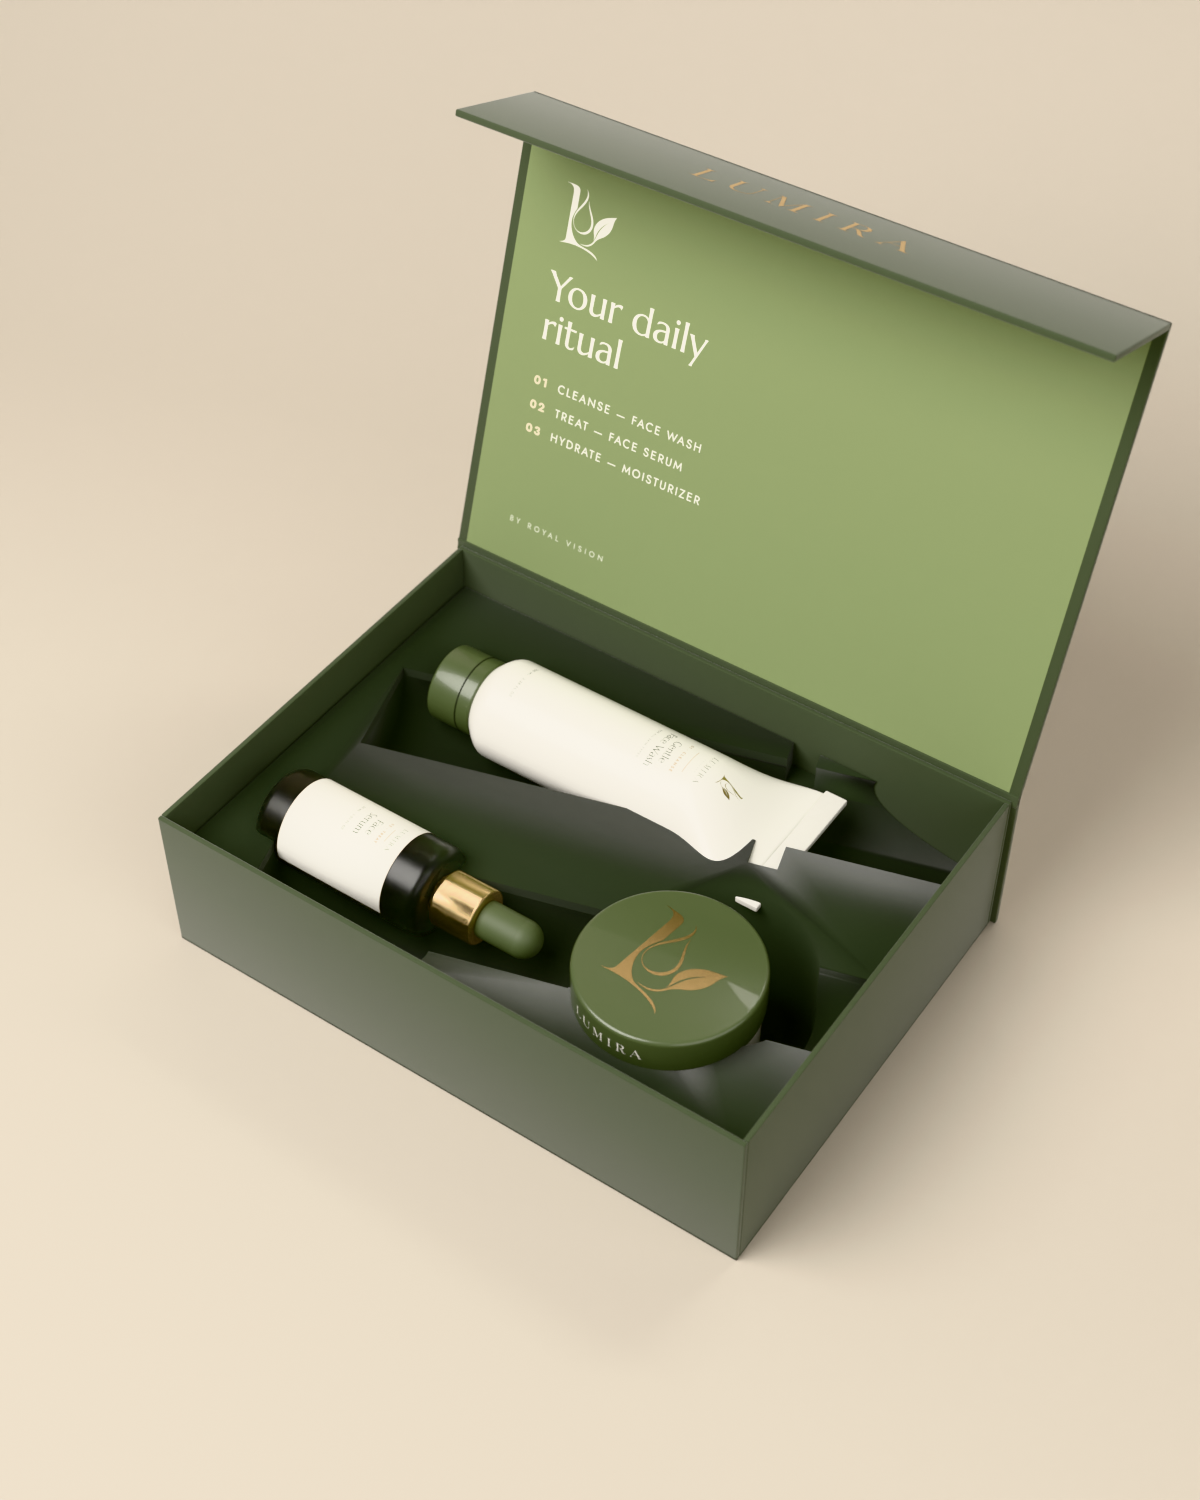
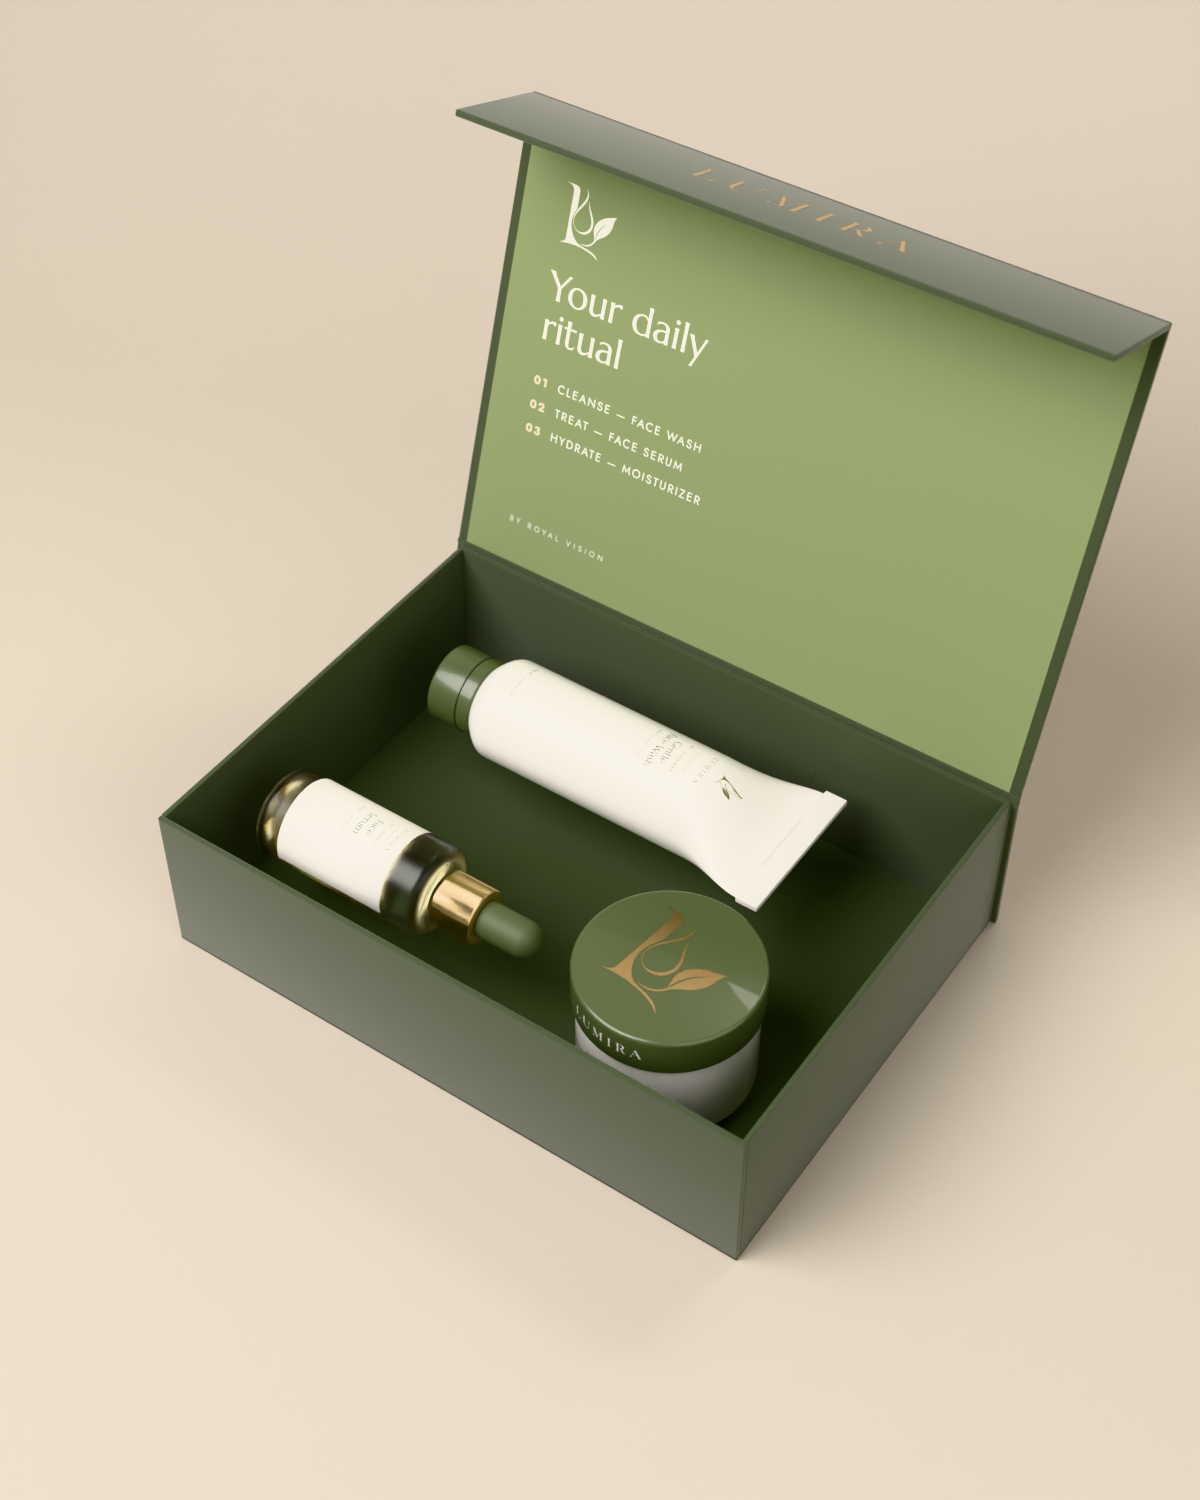
Add Lumira foam insert renders; fix insert cavity length in 3D model
Claude-Session: https://claude.ai/code/session_01LcLnYNDzurLSB8XLdGSFaY

diff --git a/brand/lumira-beauty/kit/realistic/source/insert_shot.py b/brand/lumira-beauty/kit/realistic/source/insert_shot.py
@@ -1,0 +1,25 @@
+import sys, os, math
+sys.path.insert(0, os.path.dirname(os.path.abspath(__file__)))
+import scene as S
+from scene import *
+import box_mockup as B, magnetic as M
+
+def build(products):
+    stage(); world()
+    root = bpy.data.objects.new("root", None); bpy.context.scene.collection.objects.link(root)
+    parts = B.shell("base", M.BW, M.BD, M.BH, B.FLOOR, B.olive_mat(), up=True) + M.insert_with_products()
+    for o in parts:
+        if o.parent is None: o.parent = root
+    if not products:   # keep the foam and ribbon, hide the three products
+        for e in [o for o in parts if o.type == "EMPTY"]:
+            for c in e.children_recursive: c.hide_render = True
+    root.rotation_euler = (0, 0, math.radians(-12))
+    tgt = (0, 0, mm(40))
+    B.lamp("key", (-0.25, -0.2, 0.9), tgt, 30, 1.2)
+    B.lamp("fill", (0.6, -0.4, 0.5), tgt, 6, 1.2)
+    B.lamp("rim", (0.2, 0.6, 0.7), tgt, 8, 0.8)
+    camera((0.03, -0.20, 0.58), tgt, lens=58, fstop=11)
+
+if __name__ == "__main__":
+    which, out, w, h, spp = sys.argv[1], sys.argv[2], int(sys.argv[3]), int(sys.argv[4]), int(sys.argv[5])
+    S.reset(); build(which == "full"); S.render(out, w, h, spp)

diff --git a/brand/lumira-beauty/kit/realistic/source/magnetic.py b/brand/lumira-beauty/kit/realistic/source/magnetic.py
@@ -13,16 +13,17 @@ HINGE = (0, BD / 2, BH)
 
 def foam_mat():
     m, nt, out = mat("foam")
-    b = bsdf(nt, (0.030, 0.040, 0.024, 1), 0.92, sheen=0.25, spec=0.15)
+    b = bsdf(nt, (0.042, 0.054, 0.032, 1), 0.92, sheen=0.25, spec=0.15)
     paper_bump(nt, b, scale=2500, strength=0.15)
     nt.links.new(b.outputs[0], out.inputs[0]); return m
 
 def insert_with_products():
-    tray = cube("insert", B.IL, B.ID, B.IH, (0, 0, B.FLOOR + B.IH / 2), bevel=mm(0.8), m=foam_mat())
+    tray = cube("insert", B.IL, B.ID, B.IH, (0, 0, B.FLOOR + B.IH / 2), m=foam_mat())
+    for p in tray.data.polygons: p.use_smooth = False
     cuts, ITOP = [], B.ITOP
     def slot(name, x0, x1, y, r, depth):
         axis_z = ITOP - depth + r
-        c = cyl(name, r, x1 - x0, 0); c.rotation_euler = (0, math.radians(90), 0); c.location = (mm(x0), mm(y), axis_z)
+        c = cyl(name, r, mm(x1 - x0), 0); c.rotation_euler = (0, math.radians(90), 0); c.location = (mm(x0), mm(y), axis_z)
         top = cube(name + "_top", mm(x1 - x0), 2 * r, mm(30), (mm((x0 + x1) / 2), mm(y), axis_z + mm(15)))
         cuts.extend([c, top]); return axis_z
     tube_z = slot("cut_tube", -95, 67, 42, mm(21), mm(25))

diff --git a/brand/lumira-beauty/kit/realistic/source/box_mockup.py b/brand/lumira-beauty/kit/realistic/source/box_mockup.py
@@ -57,7 +57,7 @@ def base_with_products():
     cuts = []
     def slot(name, x0, x1, y, r, depth):
         axis_z = ITOP - depth + r
-        c = cyl(name, r, x1 - x0, 0); c.rotation_euler = (0, math.radians(90), 0); c.location = (mm(x0), mm(y), axis_z)
+        c = cyl(name, r, mm(x1 - x0), 0); c.rotation_euler = (0, math.radians(90), 0); c.location = (mm(x0), mm(y), axis_z)
         top = cube(name + "_top", mm(x1 - x0), 2 * r, mm(30), (mm((x0 + x1) / 2), mm(y), axis_z + mm(15)))
         cuts.extend([c, top]); return axis_z
     tube_z = slot("cut_tube", -95, 67, 42, mm(21), mm(25))
